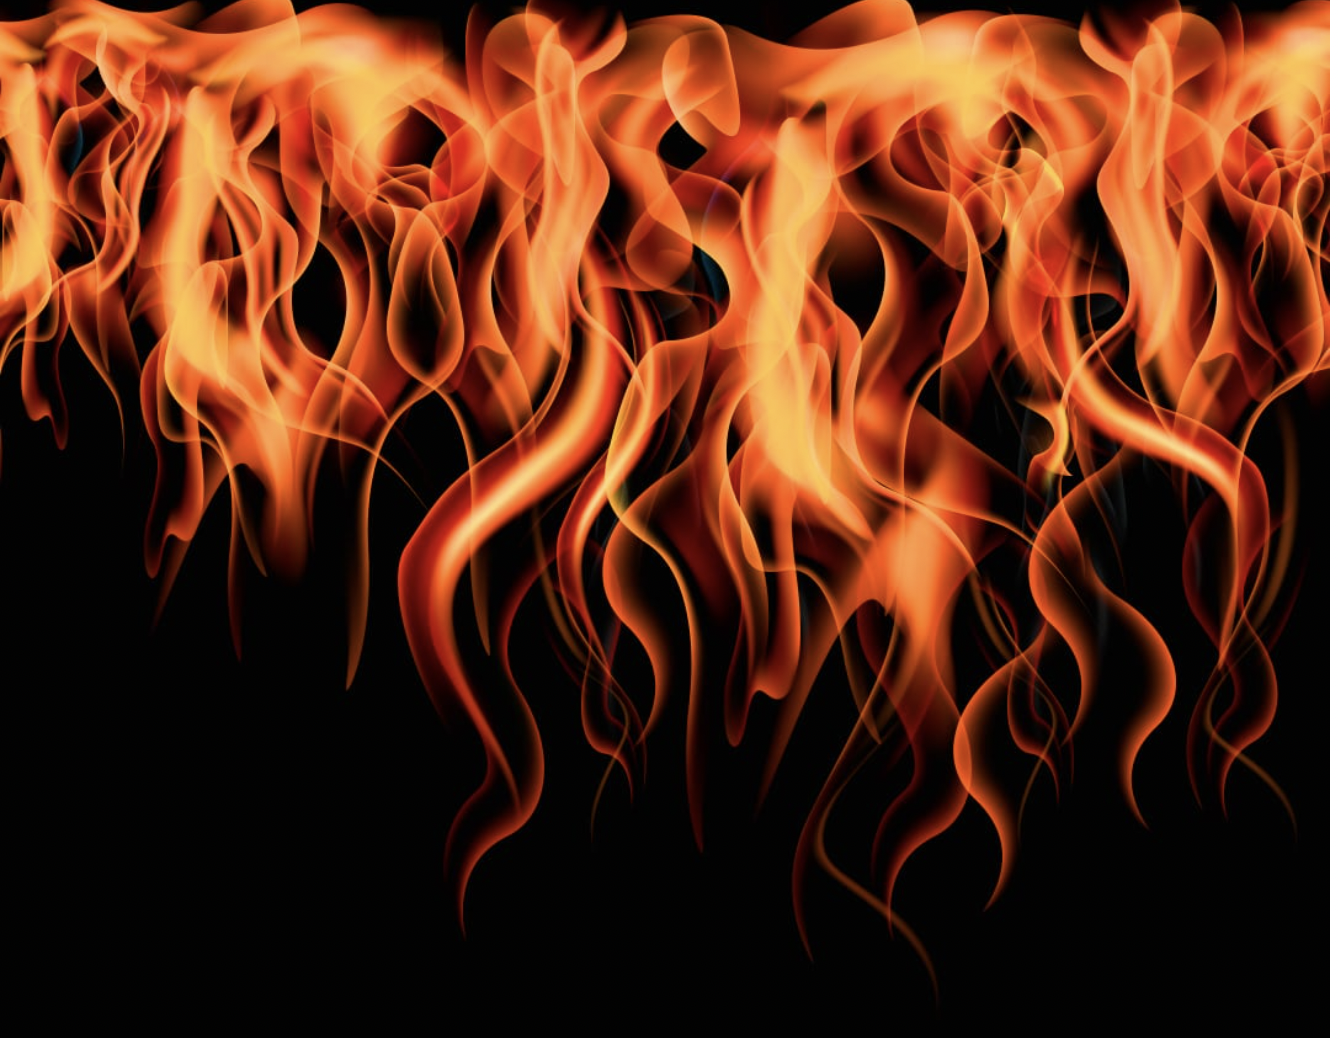
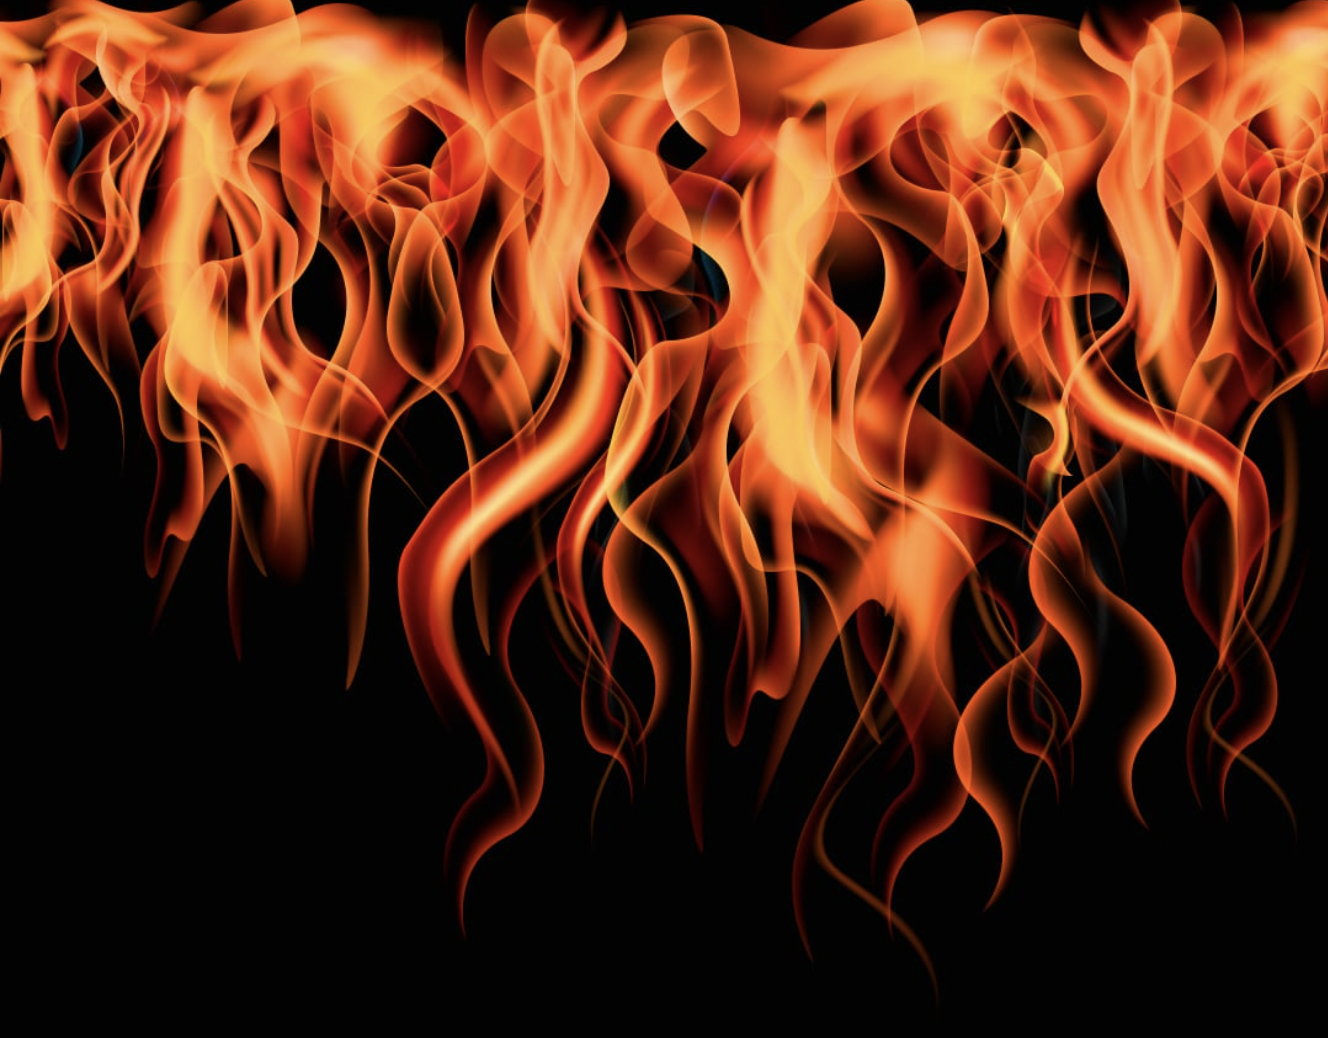
Fix background image size

diff --git a/styles.css b/styles.css
@@ -51,10 +51,10 @@ q:before, q:after {
 body {
   height: 100vh;
   width: 100vw;
-  /* background-image: url('./assets/fire.png'); */
-  /* background-size: cover; */
-  /* background-repeat: no-repeat; */
-  /* background-attachment: fixed; */
+  background-image: url('./assets/fire.png');
+  background-size: cover;
+  background-repeat: no-repeat;
+  background-attachment: fixed;
 }
 
 main {
